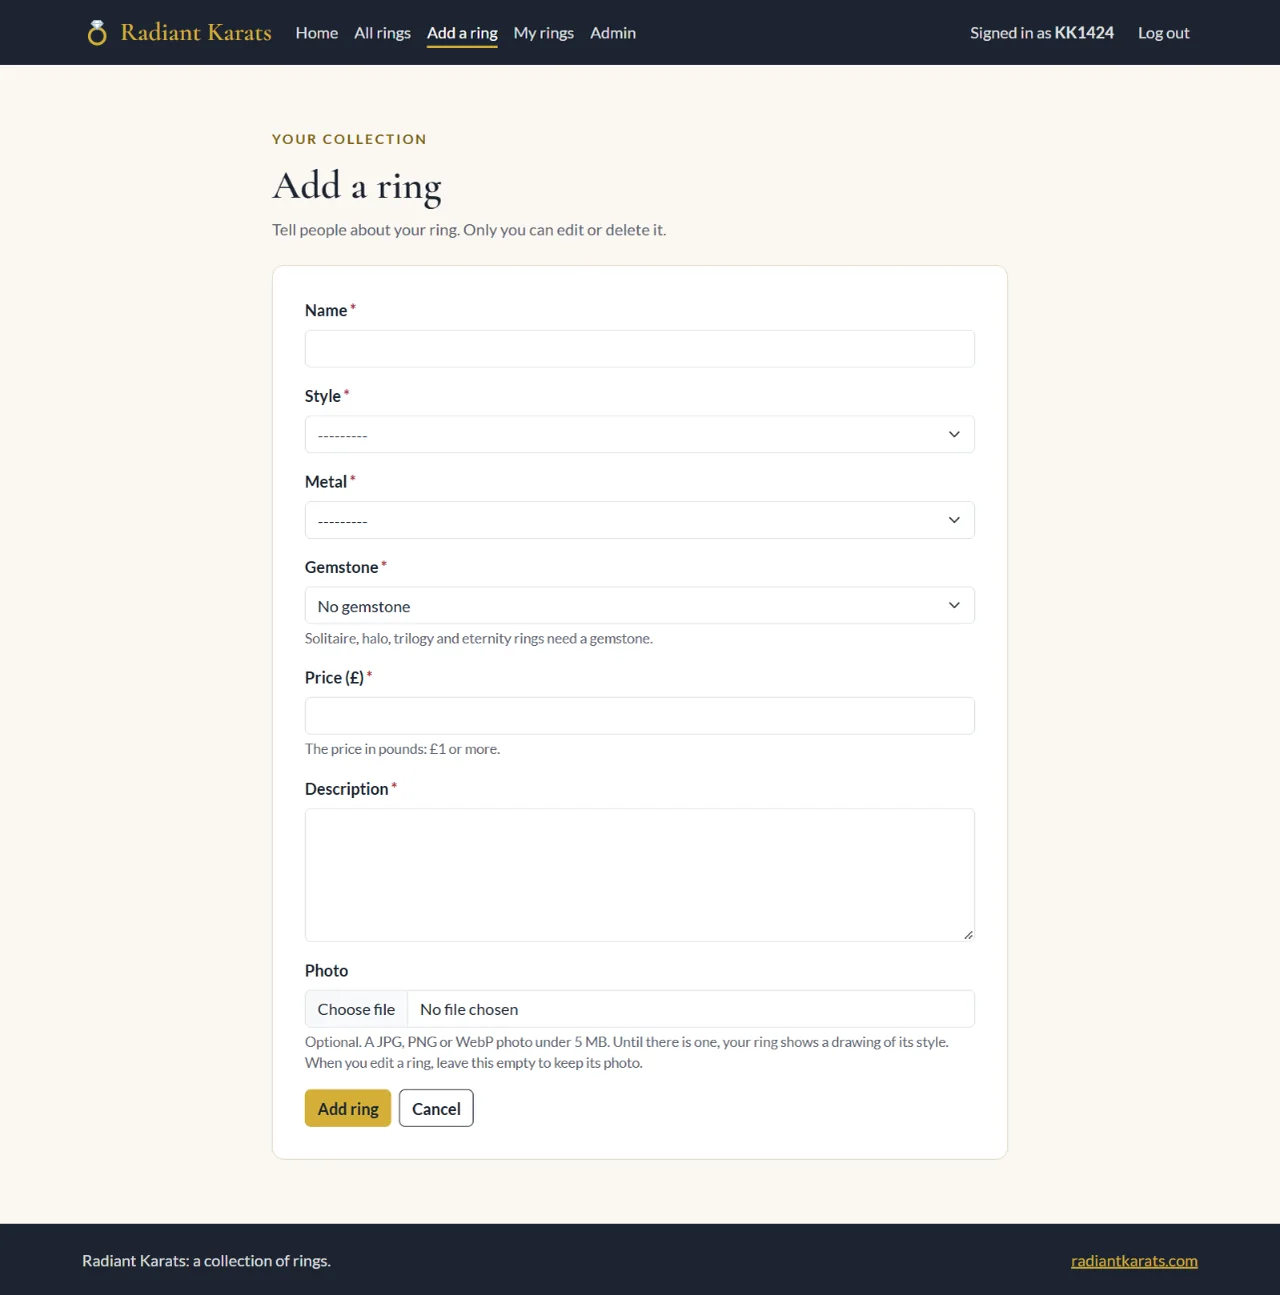
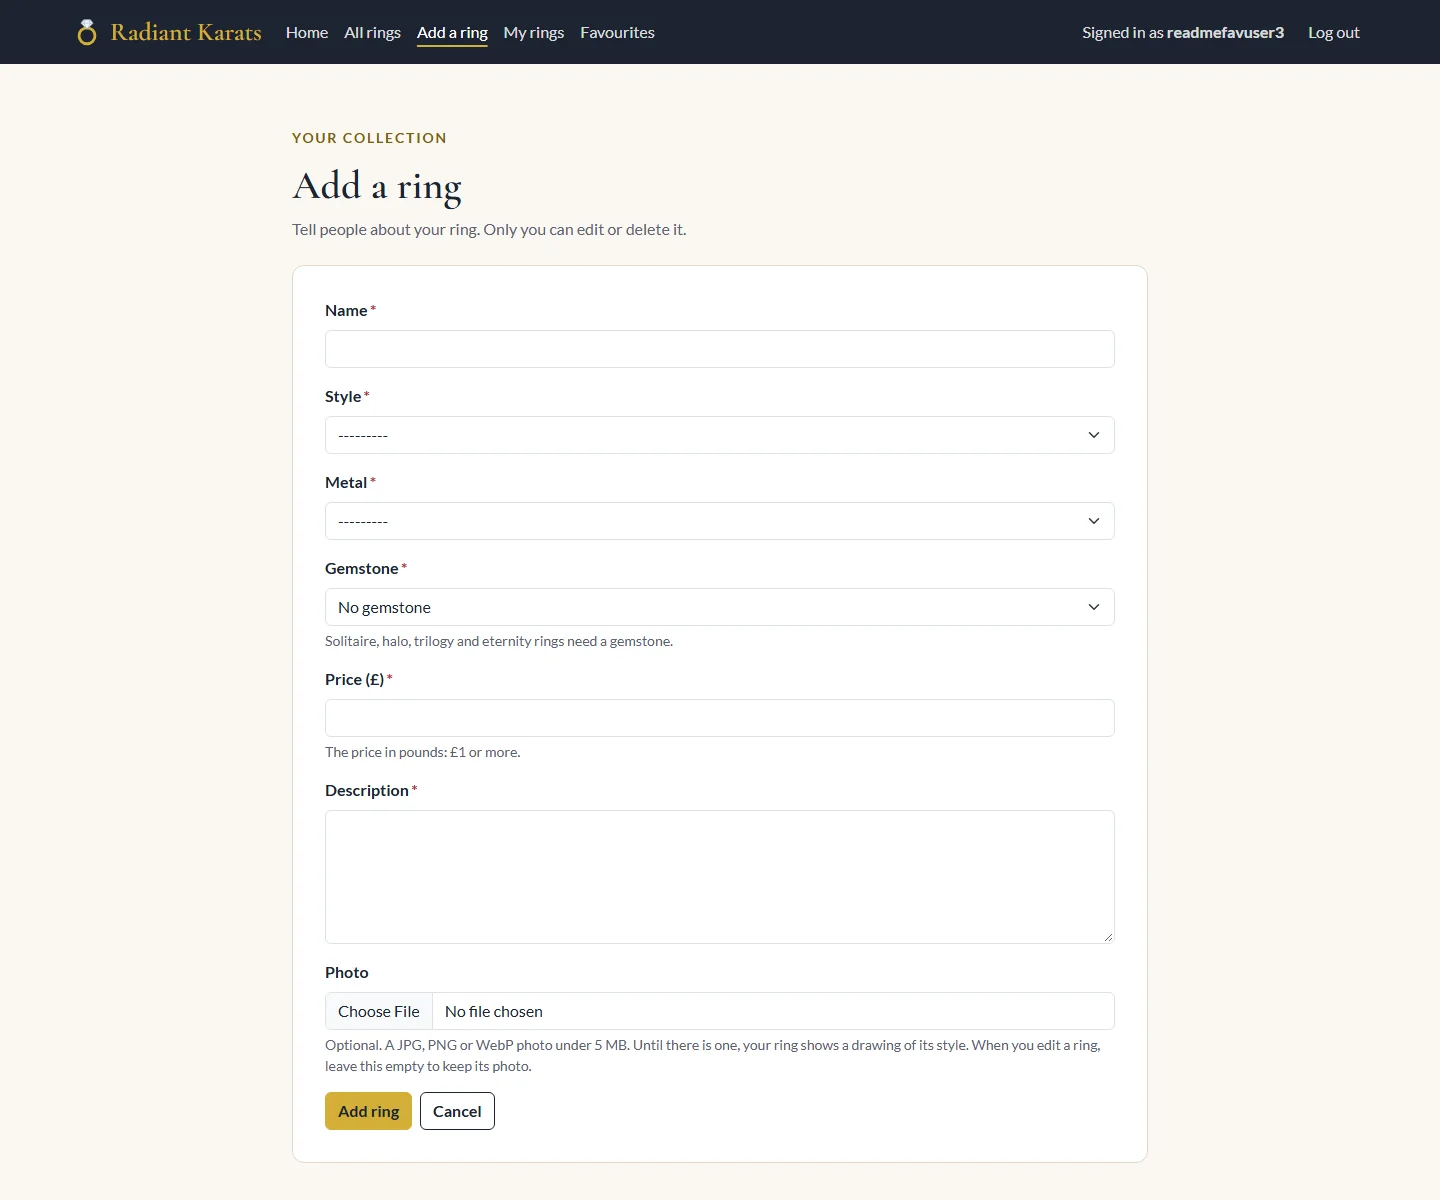
changes in mobile view

diff --git a/static/css/style.css b/static/css/style.css
@@ -245,8 +245,7 @@ button:focus-visible,
 .hero-content {
     position: relative;
     z-index: 1;
-    padding-top: 5rem;
-    padding-bottom: 5rem;
+    padding: 5rem 1.5rem;
 }
 
 .hero h1 {
@@ -775,6 +774,7 @@ button:focus-visible,
     margin-bottom: 0.25rem;
     color: var(--rk-ink);
     font-weight: 700;
+    font-size: 1rem;
 }
 
 /* ---------- Home page: browse by style ---------- */
@@ -870,6 +870,25 @@ button:focus-visible,
 
 @media (max-width: 767px) {
     .collection-section {
+        padding: 2rem 0;
+    }
+    .hero-button {
+        padding: 0.5rem 0.75rem;
+    }
+    .hero-content {
+        padding: 4rem 1.5rem 1rem;
+    }
+    .hero-copy {
+        margin: 1.25rem 0 1rem;
+        font-size: 15px;
+    }
+    .hero-stats {
+        margin: 1.5rem 0 0;
+    }
+    .highlight p {
+        font-size: 13px;
+    }
+    .cta-section {
         padding: 2rem 0;
     }
 }

diff --git a/README.md b/README.md
@@ -89,7 +89,7 @@ should-have story is built, and so is one could-have: search by name (US17).
 | --- | --- | --- |
 | Must have | Register, log in and log out; see who is logged in; browse every ring; a page for each ring; add, edit and delete my own rings, with a photo; nobody else can change my rings; the site owner can manage every ring; works on any screen | US01 to US11 |
 | Should have | The newest rings on the home page; My rings; filter by style; sort by price; custom 404 and 403 pages | US12 to US16 |
-| Could have | Search by name (built); favourite rings | US17 and US18 |
+| Could have | Search by name (built); favourite rings (built) | US17 and US18 |
 | Won't have this time | Made-to-order rings; buying rings online | US19 and US20 |
 
 **Kept out on purpose.** My facilitator advised me to keep this project
@@ -353,10 +353,10 @@ and My rings with no rings yet.
 
 The navbar is on every page. It shows who is signed in ("Signed in as
 KK1424"), and only the links that person can use: visitors see Log in and
-Register, signed-in users see Add a ring, My rings and Log out, and staff also
-see Admin. The current page is underlined. On phones and tablets the links fold
-into a menu button, shown open in [Tablet and mobile view](#tablet-and-mobile-view).
-*Stories US01 to US03, US10 and US11.*
+Register, signed-in users see Add a ring, My rings, Favourites and Log out,
+and staff also see Admin. The current page is underlined. On phones and
+tablets the links fold into a menu button, shown open in [Tablet and mobile
+view](#tablet-and-mobile-view). *Stories US01 to US03, US10 and US11.*
 
 ![The navbar for a visitor and for the site owner](docs/screenshots/navbar-states.webp)
 
@@ -479,6 +479,17 @@ button appear. *Story US13.*
 | --- | --- |
 | ![My rings](docs/screenshots/my-rings.webp) | ![My rings with no rings](docs/screenshots/my-rings-empty.webp) |
 
+#### Favourites
+
+Signed-in users can save any ring to their Favourites list and return to it
+later. The button changes between Save to favourites and Remove from
+favourites, and the list shows the saved rings most recently added first.
+*Story US18.*
+
+| Save to favourites on the ring page | Favourites page |
+| --- | --- |
+| ![Save to favourites on the ring page](docs/screenshots/favourites-ring.png) | ![Your saved rings on the Favourites page](docs/screenshots/favourites-page.png) |
+
 #### Accounts
 
 Register, log in and log out use django-allauth, styled to match the site.
@@ -574,7 +585,6 @@ full width.
 - **Made-to-order rings** (US19): customers choose the metal, stone and size
   of a ring to be made for them, and the site owner sends a quote.
 - **A shop** (US20): a basket and online payments, for example with Stripe.
-- **Favourites** (US18): save rings to look at again later.
 - **More photos** for each ring, shown as a small gallery.
 - **More filters**, such as metal, gemstone and a price range.
 - **Tidying up Cloudinary**: delete a ring's old photo when it's replaced, or
